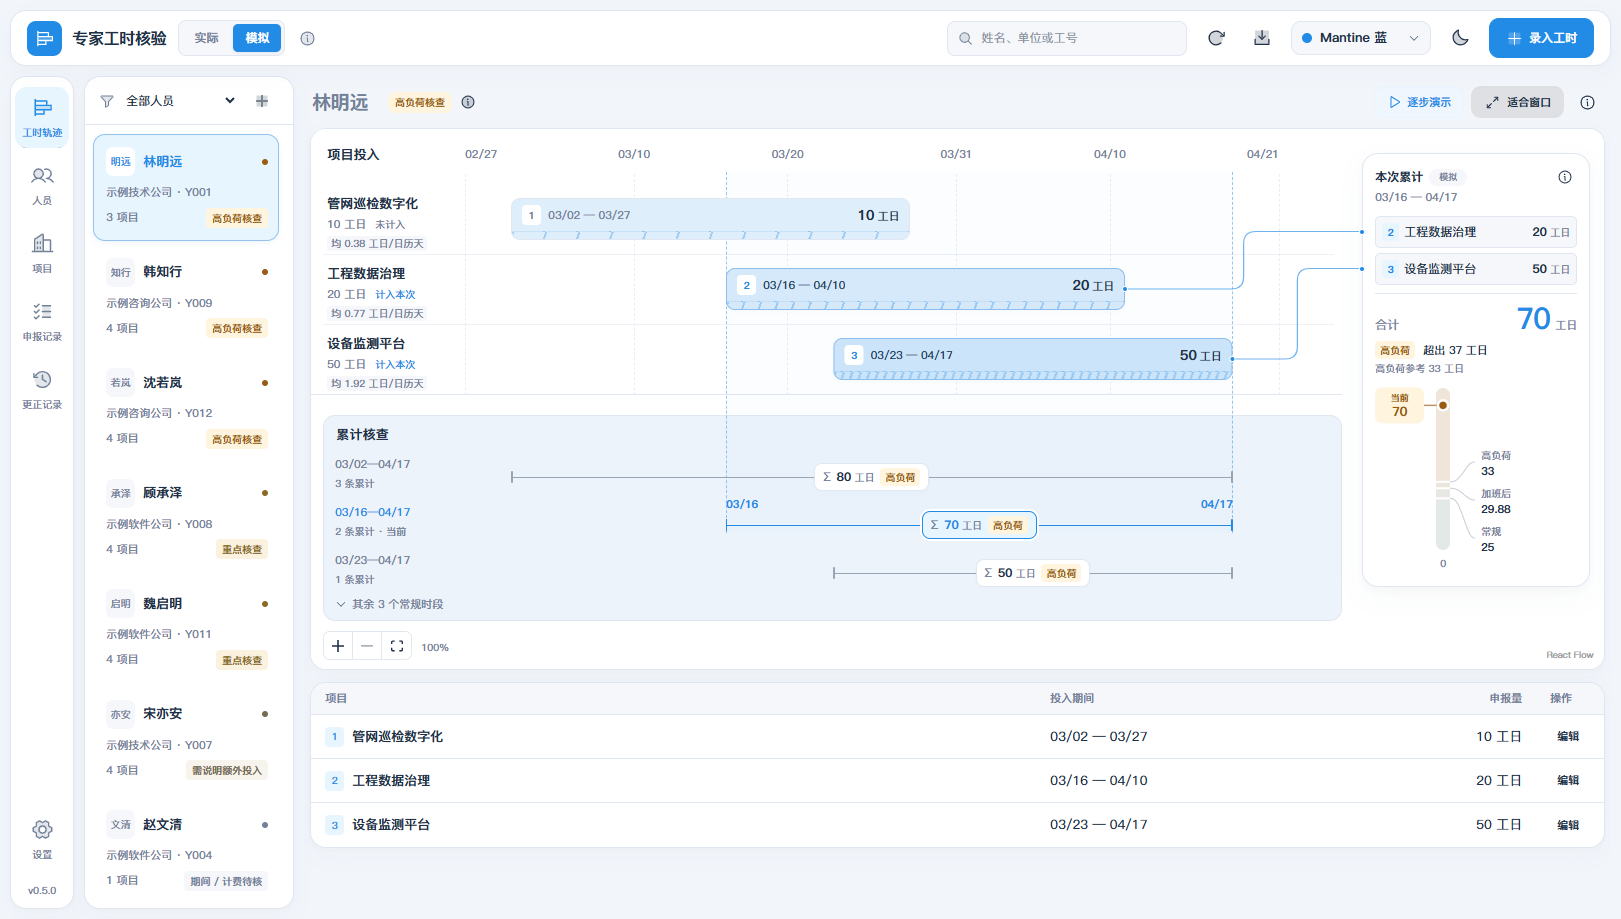
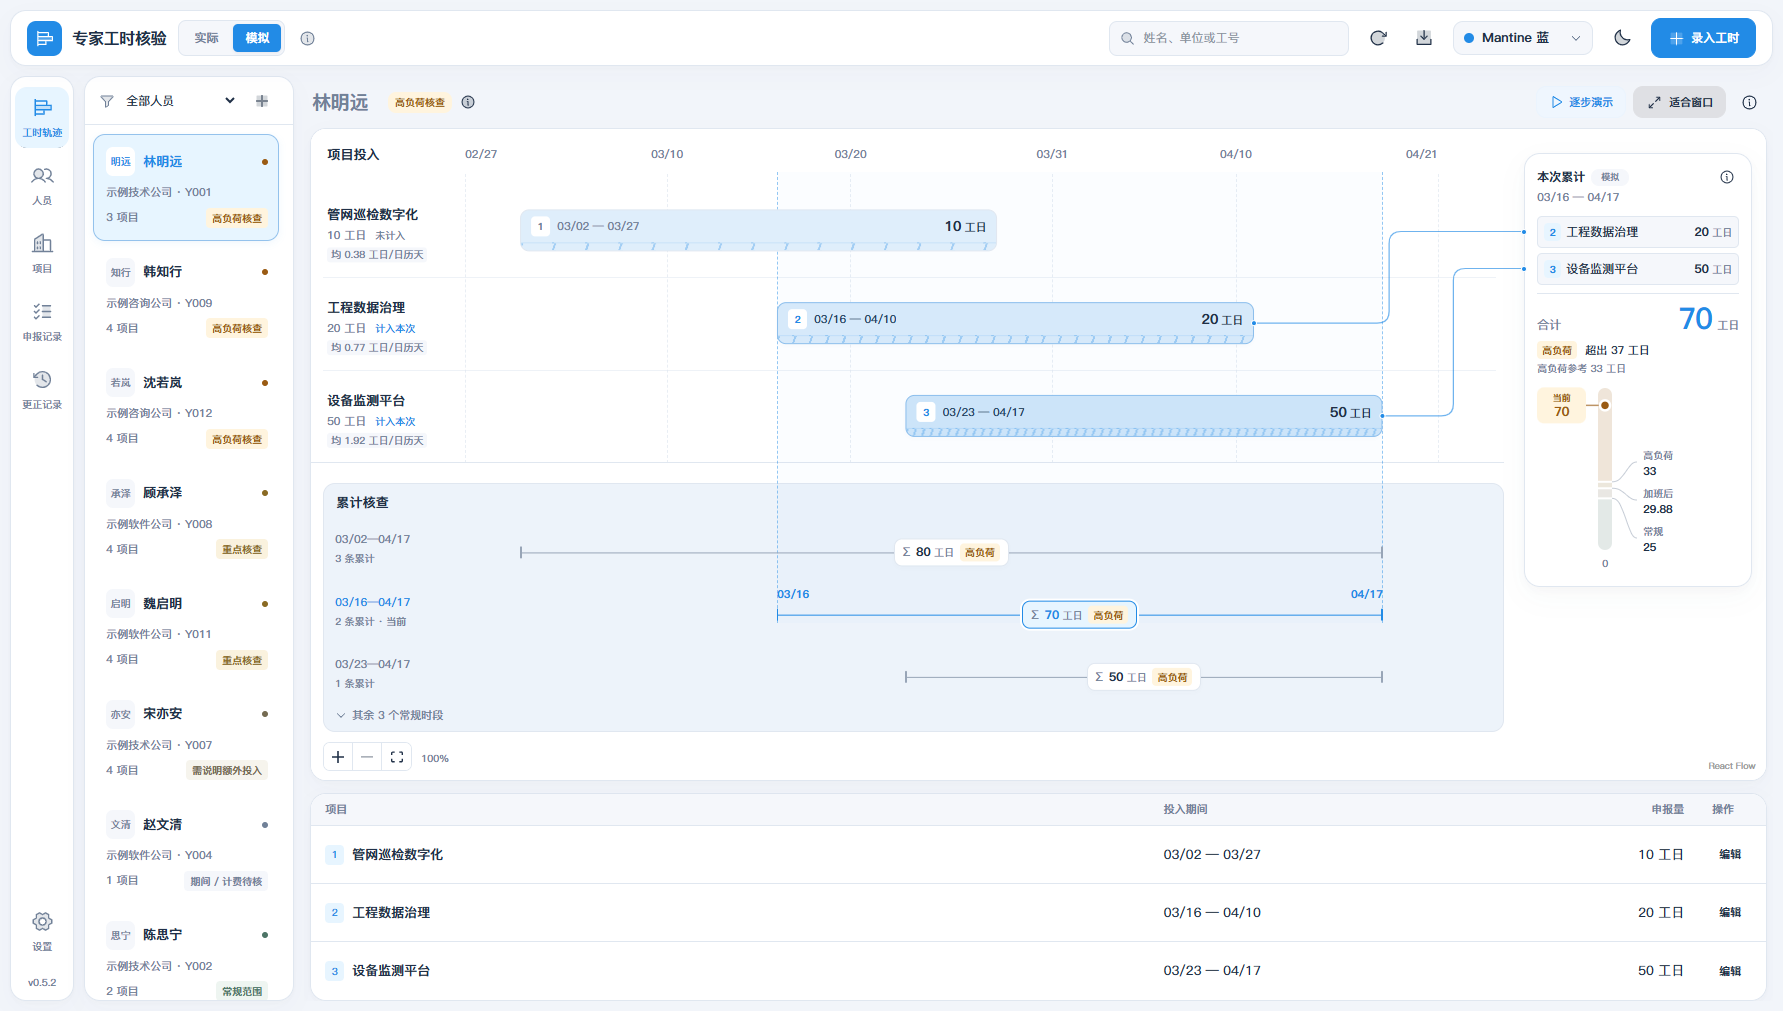
Balance diagram and entry row heights with available workspace

diff --git a/src/FlowTimeline.jsx b/src/FlowTimeline.jsx
@@ -77,7 +77,14 @@ export default function FlowTimeline(props){
   const hostRef=useRef(null),instanceRef=useRef(null);
   const [width,setWidth]=useState(1000),[showAll,setShowAll]=useState(false),[highlightedId,setHighlightedId]=useState(null);
   const [zoom,setZoom]=useState(1),[resultHeight,setResultHeight]=useState(530);
+  const [availableHeight,setAvailableHeight]=useState(0),[toolbarHeight,setToolbarHeight]=useState(52);
   useEffect(()=>{const observer=new ResizeObserver(([e])=>setWidth(e.contentRect.width));if(hostRef.current)observer.observe(hostRef.current);return()=>observer.disconnect();},[]);
+  useEffect(()=>{
+    const workspace=hostRef.current.closest('.person-scroll'),toolbar=hostRef.current.previousElementSibling;
+    const observer=new ResizeObserver(()=>{setAvailableHeight(workspace.clientHeight);setToolbarHeight(toolbar.offsetHeight);});
+    observer.observe(workspace);observer.observe(toolbar);
+    return()=>observer.disconnect();
+  },[]);
   useEffect(()=>setHighlightedId(null),[scope?.start,scope?.end]);
   const complete=entries.filter(e=>e.start&&e.end&&!['withdrawn','returned'].includes(e.status)&&e.duplicate!=='duplicate');
   const totalWidth=Math.max(width,820),baseZoom=Math.min(1,width/820),left=154,resultWidth=228,resultX=totalWidth-resultWidth-14,timeWidth=resultX-left-68;
@@ -89,23 +96,37 @@ export default function FlowTimeline(props){
   const shown=walking?(scope?[scope]:[]):sorted.filter(w=>showAll||w.rank>0||isCurrent(w));
   const start=complete.length?Math.min(...complete.map(e=>day(e.start)))-3:0,end=complete.length?Math.max(...complete.map(e=>day(e.end)))+4:28,span=Math.max(28,end-start+1);
   const x=n=>left+(n-start)/span*timeWidth;
-  const top=64,rowHeight=70,rangeRowHeight=48;
+  const top=64;
+  // Share spare viewport height between real diagram rows and table rows, not blank card space.
+  const foldSpace=hidden.length&&!walking?34:10;
+  const naturalDiagramHeight=top+complete.length*70-8+20+30+shown.length*48+foldSpace+48;
+  const naturalHeight=Math.max(460,naturalDiagramHeight,24+resultHeight+18);
+  const spare=Math.max(0,availableHeight-toolbarHeight-12-34-entries.length*44-Math.ceil(naturalHeight*baseZoom));
+  const tableRowHeight=44+Math.min(20,Math.floor(spare*.28/Math.max(1,entries.length)));
+  const diagramShare=(spare-entries.length*(tableRowHeight-44))/baseZoom+Math.max(0,naturalHeight-naturalDiagramHeight);
+  const rowShare=diagramShare/Math.max(1,complete.length*1.6+shown.length);
+  const rowHeight=70+Math.min(62,rowShare*1.6),rangeRowHeight=48+Math.min(28,rowShare);
+  useEffect(()=>{
+    const workspace=hostRef.current.closest('.person-scroll');
+    workspace.style.setProperty('--entry-row-height',`${tableRowHeight}px`);
+    return()=>workspace.style.removeProperty('--entry-row-height');
+  },[tableRowHeight]);
   const projectBottom=top+complete.length*rowHeight-8,reviewTop=projectBottom+20,rangeTop=reviewTop+30;
   const rangesEnd=rangeTop+shown.length*rangeRowHeight;
   const auxiliaryY=rangesEnd+(hidden.length&&!walking?34:10);
   const range=scope;
   const selectedRangeIndex=shown.findIndex(isCurrent);
-  const guideBottom=rangeTop+Math.max(0,selectedRangeIndex)*rangeRowHeight+40;
+  const guideBottom=rangeTop+Math.max(0,selectedRangeIndex)*rangeRowHeight+(rangeRowHeight-48)/2+40;
   const height=Math.max(460,auxiliaryY+48,24+resultHeight+18);
   const highlightTotal=()=>{setHighlightedId(null);if(scope&&!walking)selectScope(scope);};
   const nodes=[];
   complete.forEach((entry,i)=>{
     const density=entryDensity(entry,rules),densityText=density?`平均密度：${num(density.days)} 工日 ÷ ${density.calendarDays} 个日历天 = ${densityNum(density.perDay)} 工日/天。整条蓝色越深、底部刻纹越密，平均投入越高；底部刻纹仅作疏密示意，不代表实际逐日投入。`:'日期、数量或单位折算依据不足，无法计算平均密度。';
     const name=projects.find(p=>p.id===entry.project_id)?.name||'项目待补',data={entry,name,density,densityText,number:numbers.get(entry.id),included:included.has(entry.id),highlighted:highlightedId===entry.id||selectedId===entry.id,onSelect,onHighlight:setHighlightedId};
-    nodes.push({id:`label-${entry.id}`,type:'label',position:{x:16,y:top+i*rowHeight},data,style:{width:left-26,height:58},selectable:false,focusable:false});
-    nodes.push({id:`claim-${entry.id}`,type:'claim',position:{x:x(day(entry.start)),y:top+i*rowHeight+5},data,style:{width:Math.max(3,(day(entry.end)-day(entry.start)+1)/span*timeWidth),height:42},selectable:false,focusable:false});
+    nodes.push({id:`label-${entry.id}`,type:'label',position:{x:16,y:top+i*rowHeight+(rowHeight-70)/2},data,style:{width:left-26,height:58},selectable:false,focusable:false});
+    nodes.push({id:`claim-${entry.id}`,type:'claim',position:{x:x(day(entry.start)),y:top+i*rowHeight+(rowHeight-70)/2+5},data,style:{width:Math.max(3,(day(entry.end)-day(entry.start)+1)/span*timeWidth),height:42},selectable:false,focusable:false});
   });
-  shown.forEach((w,i)=>nodes.push({id:`range-${key(w)}`,type:'range',position:{x:0,y:rangeTop+i*rangeRowHeight},data:{window:w,current:isCurrent(w),onSelect:selectScope,left:x(day(w.start)),width:(day(w.end)-day(w.start)+1)/span*timeWidth},style:{width:resultX-20,height:rangeRowHeight},selectable:false,focusable:false}));
+  shown.forEach((w,i)=>nodes.push({id:`range-${key(w)}`,type:'range',position:{x:0,y:rangeTop+i*rangeRowHeight+(rangeRowHeight-48)/2},data:{window:w,current:isCurrent(w),onSelect:selectScope,left:x(day(w.start)),width:(day(w.end)-day(w.start)+1)/span*timeWidth},style:{width:resultX-20,height:48},selectable:false,focusable:false}));
   if(range)nodes.push({id:'calculation',type:'result',position:{x:resultX,y:24},data:{scope,entries,projects,rules,numbers,onSelect,onRisk,onHighlight:setHighlightedId,highlightedId,onTotal:highlightTotal,onHeight:setResultHeight},style:{width:resultWidth},selectable:false,focusable:false});
   // Known dimensions keep controlled nodes visible while hover data changes.
   nodes.forEach(node=>{node.initialWidth=node.style.width;node.initialHeight=node.style.height||resultHeight;});

diff --git a/src/floating.css b/src/floating.css
@@ -54,7 +54,8 @@
 }
 .person-scroll { display:flex; flex-direction:column; padding-bottom:0; }
 .person-scroll>.flow-timeline { flex-shrink:0; }
-.person-workspace>.person-scroll>.timeline-entries { flex:1 0 auto; margin-top:0; }
+.person-workspace>.person-scroll>.timeline-entries { flex:0 0 auto; margin-top:0; }
+.person-workspace>.person-scroll>.timeline-entries .table td { height:var(--entry-row-height,44px); }
 .evidence { margin-left:0; border:1px solid var(--line); border-radius:var(--radius-box); overflow:hidden; box-shadow:var(--surface-shadow); }
 .page-scroll>.table-scroll,.page-scroll>.table { border-radius:var(--radius-box); box-shadow:var(--surface-shadow); }
 .app-modal .modal-box { border-radius:var(--radius-box); }

diff --git a/CHANGELOG.md b/CHANGELOG.md
@@ -1,5 +1,10 @@
 # 版本记录
 
+## 0.5.2 · 2026-11-08
+
+- 修正0.5.1仅撑满卡片白底的处理：根据人员工作区可用高度与记录数量，共同分配项目泳道、累计行和明细行高度。约28%的空余高度分给明细，余量分给图中行距；表格行高44–64px、项目行距70–132px、累计行距48–76px，避免记录少时过度拉伸。表格卡片始终贴合真实行内容，短窗口正常滚动。字号、日期和业务计算不变。
+- 构建、47项服务与27项UI逻辑测试通过；浏览器验证1783/1366/1101三种宽度、依据面板、累计展开、全部六步演示、1/2/3/4条申报场景及亮暗、录入/编辑打开取消。1783×1011三项目场景图高653px、明细行高58px、底部空白仅边框2px；1366×768恢复44px行高。证据 `Codex-Temp/balanced-v052.js`及对应截图。
+
 ## 0.5.1 · 2026-11-08
 
 - 人员明细卡片自动填满甘特图下方剩余高度，与工作区底部对齐；保持44px紧凑行高，短窗口按内容滚动，不裁切记录。
@@ -20,8 +25,3 @@
 
 - 采用蓝＋琥珀配色：高负荷为深琥珀字/浅金底（#9A5B13 / #FFF4DE），重点为浅赭金，轻度为灰金，常规为灰绿；同步人员状态点/标签、累计标签及参考轴，适配深色主题，错误反馈仍用红色。项目配色约定同步。
 - 构建、47项服务和27项前端逻辑测试通过；浏览器核对四级状态亮暗文字对比度均≥4.5:1、12人标签边界、1621/1101布局、人员切换和参考轴配色。证据：`Codex-Temp/amber-v0416.js`、`amber-*-v0416.png`。中性待核/资料待补标签沿用既有配色，不纳入本次四级色阶对比度结论。
-
-## 0.4.15 · 2026-11-07
-
-- 收紧右侧本次累计：合计上外距8px/内距6px，超出提示上距4px、参考说明上距2px，参考轴移除外距并减少10px顶部留白；整体缩短34px，字号与轴线长度/数值比例保持一致。
-- 构建、47项服务与27项前端逻辑测试通过；浏览器检查1101视口下70/18/38/15工日场景的文字边界、参考标签间距和数值比例，亮暗及1621全页截图通过。证据：`Codex-Temp/gauge-v0415.js`、`gauge-*-v0415.png`。

diff --git a/README.md b/README.md
@@ -4,7 +4,7 @@
 
 **按人员查看跨项目投入，让每一项累计都有来源。**
 
-![Version](https://img.shields.io/badge/version-0.5.1-228be6)
+![Version](https://img.shields.io/badge/version-0.5.2-228be6)
 ![Rules](https://img.shields.io/badge/rules-0.1.0%20%7C%20simulation-d97706)
 ![React](https://img.shields.io/badge/React-19-149eca?logo=react&logoColor=white)
 ![Python](https://img.shields.io/badge/Python-3.10%2B-3776ab?logo=python&logoColor=white)
@@ -24,7 +24,7 @@
 
 项目投入以淡蓝时间条展示，核查范围以短竖刻度和细线独立成行，选中后突出起止日期与蓝色范围线；参与累计的完整申报通过连接线对应右侧分项与参考轴。截图使用内置模拟数据。
 
-界面采用 daisyUI 语义主题与悬浮圆角卡片、轻阴影；顶栏主题菜单可选 Mantine 蓝、青绿、鸢尾紫、石墨，支持亮暗模式并记住选择。预警始终保留琥珀色系。
+界面采用 daisyUI 语义主题与悬浮圆角卡片、轻阴影；顶栏主题菜单可选 Mantine 蓝、青绿、鸢尾紫、石墨，支持亮暗模式并记住选择。预警始终保留琥珀色系。窗口空余高度由项目泳道、累计行和明细行共同分配，表格不再靠空白底色撑高；内容较少时限制最大行距，短窗口保留滚动。
 
 界面使用随本地服务提供的苹方简体 WOFF2，覆盖常规、中等与半粗三个字重；Windows 无需额外安装字体。内部测试字体来源和映射见 [字体说明](public/fonts/README.md)。
 

diff --git a/CHANGELOG-历史归档.md b/CHANGELOG-历史归档.md
@@ -270,3 +270,8 @@
 
 - 收紧累计核查内部密度：标题预留从42px调整为30px，行高56px调整为48px，标题顶部与行内日期/范围线同步上收；三行累计区缩短36px。保留项目区与累计区的20px间隔及分区底色。
 - 构建、47项服务与27项前端逻辑测试通过；浏览器验证1621/1101宽度、亮暗主题、标题/行边界、常规时段展开收起及六步演示。证据：`Codex-Temp/sections-v0414.js`、`sections-*-v0414.png`。
+
+## 0.4.15 · 2026-11-07
+
+- 收紧右侧本次累计：合计上外距8px/内距6px，超出提示上距4px、参考说明上距2px，参考轴移除外距并减少10px顶部留白；整体缩短34px，字号与轴线长度/数值比例保持一致。
+- 构建、47项服务与27项前端逻辑测试通过；浏览器检查1101视口下70/18/38/15工日场景的文字边界、参考标签间距和数值比例，亮暗及1621全页截图通过。证据：`Codex-Temp/gauge-v0415.js`、`gauge-*-v0415.png`。

diff --git a/00-docs/00-PRD/02-当前版本计划.md b/00-docs/00-PRD/02-当前版本计划.md
@@ -1,6 +1,8 @@
 # 当前版本计划
 
-界面与模拟案例版本：0.5.1；规则与服务：0.1.0；更新：2026-11-08。
+界面与模拟案例版本：0.5.2；规则与服务：0.1.0；更新：2026-11-08。
+
+- v0.5.2：撤回仅撑满表卡白底的方案，改为按窗口高度与记录数分配泳道/累计/明细行间距，并设置上限；短窗口正常滚动。构建、47+27项测试和宽窄/六步演示/来源切换/不同记录数量浏览器检查通过，详见 `Codex-Temp/balanced-v052.js`。
 
 - v0.5.1：明细卡片自适应填满底部剩余空间，保留紧凑行高和短窗口滚动。构建及三种尺寸、亮暗、依据面板与编辑打开/取消浏览器检查通过。
 
